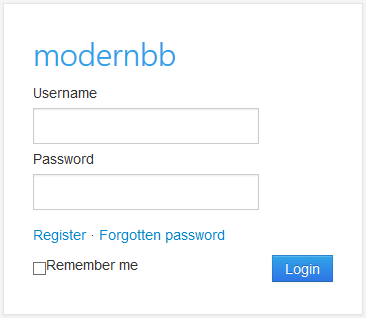
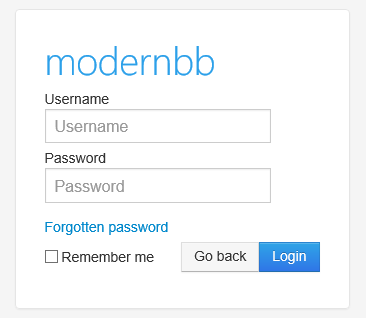
Mulltiple bugfixes and small improvements

diff --git a/admin/footer.php b/admin/footer.php
@@ -24,20 +24,19 @@ ob_start();
 <footer>
 	<p class="pull-right"><?php printf($lang_common['Powered by'], '<a href="http://modernbb.be/">ModernBB</a>'.(' '.$pun_config['o_cur_version'])) ?></p>
     <script type="text/javascript" src="http://platform.twitter.com/widgets.js"></script>
-    <script src="js/jquery.js"></script>
-    <script src="js/bootstrap-transition.js"></script>
-    <script src="js/bootstrap-alert.js"></script>
-    <script src="js/bootstrap-modal.js"></script>
-    <script src="js/bootstrap-dropdown.js"></script>
-    <script src="js/bootstrap-scrollspy.js"></script>
-    <script src="js/bootstrap-tab.js"></script>
-    <script src="js/bootstrap-tooltip.js"></script>
-    <script src="js/bootstrap-popover.js"></script>
-    <script src="js/bootstrap-button.js"></script>
-    <script src="js/bootstrap-collapse.js"></script>
-    <script src="js/bootstrap-carousel.js"></script>
-    <script src="js/bootstrap-typeahead.js"></script>
-    <script src="js/bootstrap-affix.js"></script>
+    <script src="admin/js/bootstrap-transition.js"></script>
+    <script src="admin/js/bootstrap-alert.js"></script>
+    <script src="admin/js/bootstrap-modal.js"></script>
+    <script src="admin/js/bootstrap-dropdown.js"></script>
+    <script src="admin/js/bootstrap-scrollspy.js"></script>
+    <script src="admin/js/bootstrap-tab.js"></script>
+    <script src="admin/js/bootstrap-tooltip.js"></script>
+    <script src="admin/js/bootstrap-popover.js"></script>
+    <script src="admin/js/bootstrap-button.js"></script>
+    <script src="admin/js/bootstrap-collapse.js"></script>
+    <script src="admin/js/bootstrap-carousel.js"></script>
+    <script src="admin/js/bootstrap-typeahead.js"></script>
+    <script src="admin/js/bootstrap-affix.js"></script>
 </footer>
 <?php
 

diff --git a/about.php b/about.php
@@ -65,6 +65,11 @@ if (preg_match("/^[0-9.-]{1,}$/", $latest_version)) {
         	<img src="admin/img/login.png" width="366" height="318" alt="Login form" />
             <p>ModernBB features a brand new login form. With less clutter, it's straight to the point. A true login experience.</p>
         </div>
+    	<div class="span4">
+        	<p><b>Modernized styles.</b></p>
+        	<img src="admin/img/styles.png" width="366" height="318" alt="Style preview" />
+            <p>It was time to modernize the standard themes of ModernBB. We removed unneeded borders, use border-radius instead of images and improved the templates that handel the pages.</p>
+        </div>
     </div>
     <h3>Other small improvements</h3>
 	<div class="row-fluid">

diff --git a/login.php b/login.php
@@ -296,6 +296,7 @@ define('PUN_ACTIVE_PAGE', 'login');
             background-color: #fff;
             border: 1px solid #e5e5e5;
             box-shadow: 0 1px 2px rgba(0,0,0,.05);
+			border-radius: .3em;
         }
         .form-signin .form-signin-heading, .form-signin .checkbox {
             margin-bottom: 10px;
